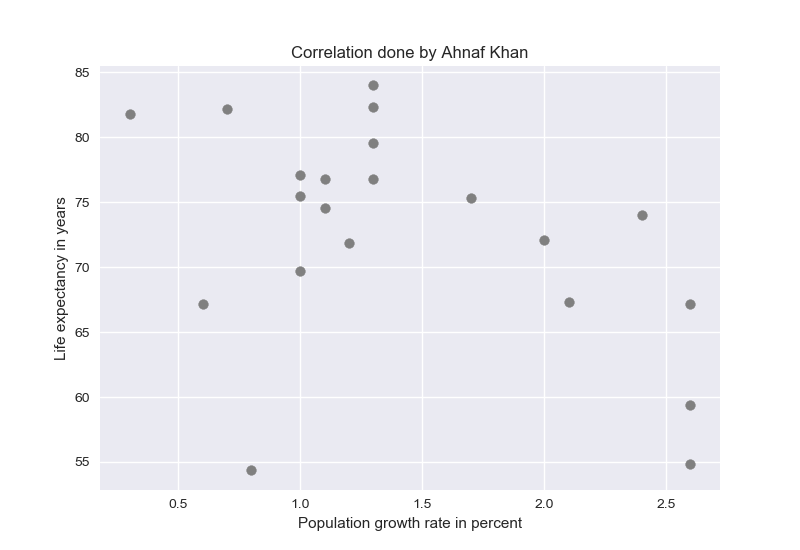
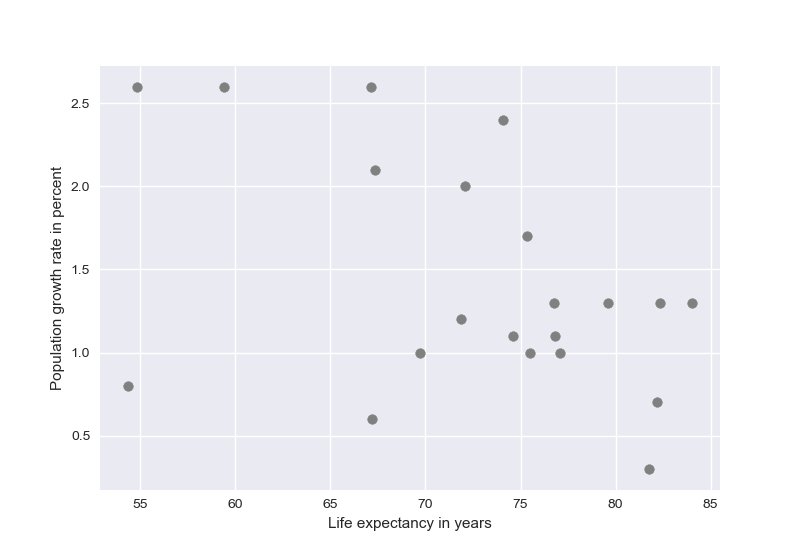
changed axises

diff --git a/plot.py b/plot.py
@@ -7,9 +7,8 @@ Lifetime = data['Life Expectancy']
 PopulationGrowth = data['Population Growth Rate In Percent']
 plt.style.use('seaborn')
 
-plt.scatter(PopulationGrowth, Lifetime, color='grey')
-plt.xlabel('Population growth rate in percent')
-plt.ylabel('Life expectancy in years')
-plt.title('Correlation done by Ahnaf Khan')
+plt.scatter(Lifetime, PopulationGrowth, color='grey')
+plt.xlabel('Life expectancy in years')
+plt.ylabel('Population growth rate in percent')
 plt.savefig('correlation.png')
 plt.show()
